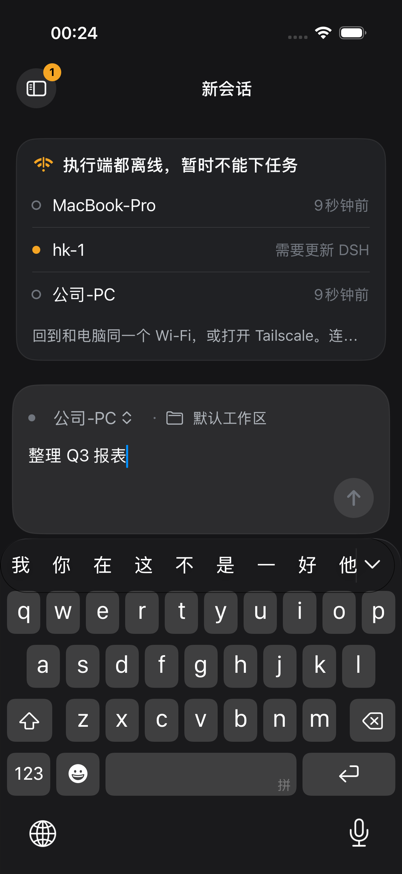
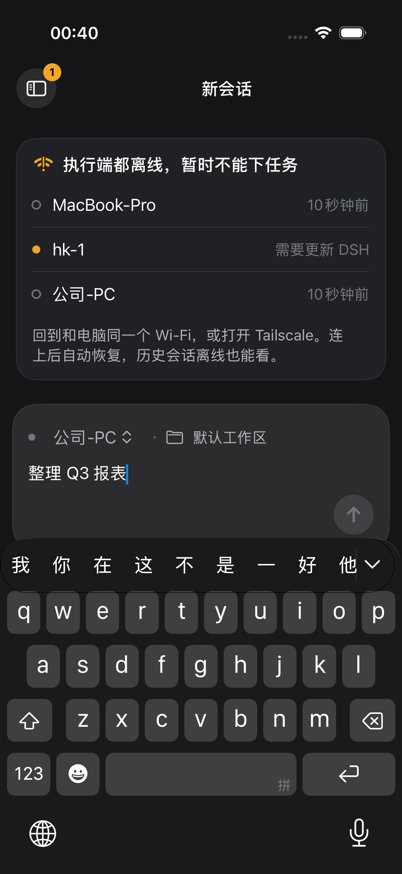
S21: tick Done when items with evidence; Log entry (to review)

diff --git a/PLAN.md b/PLAN.md
@@ -982,18 +982,28 @@ After T1, these slices touch different files and can run in parallel: S14, S15, 
 **Demo**: Stop all hosts. 01 shows the card. Start one host. The card goes away.
 
 **Done when**
-- [ ] [ui] The all-offline card names each host and its last connection — Evidence:
-- [ ] [ui] A revoke of this device asks for confirmation, then opens 08 — Evidence:
-- [ ] [ui] A tap on the "2 / 3" pill opens the hosts sheet: an online host with its channel, an unsupported DSH with the installed and supported versions, an offline host with its last connection and what waits on it — Evidence:
-- [ ] [ui] One host shows its devices (this device is marked) and its audit records, and "load older" adds the earlier records; a revoke of another device asks first and removes it — Evidence:
-- [ ] [ui] With all hosts offline the send key is off and a cached session still opens; when one host is back, the card goes away and the send key is on — Evidence:
-- [ ] [auto] "All hosts offline" is set only when no host can take a task, stays set while hosts retry, and clears when one is online; the send key follows it — Evidence:
-- [ ] [auto] The fake host's devices, audit pages and revoke match the bridge; a revoke of this device ends its access — Evidence:
+- [x] [ui] The all-offline card names each host and its last connection — Evidence: test:S21HostsUITests/testAllOfflineCardNamesEachHostAndGoesWhenOneIsBack · cmd:scripts/demo/s21.sh · shot:evidence/S21/s21-all-offline.png
+- [x] [ui] A revoke of this device asks for confirmation, then opens 08 — Evidence: test:S21HostsUITests/testRevokeThisDeviceAsksThenOpens08 · cmd:scripts/demo/s21.sh · shot:evidence/S21/s21-revoke-confirm.png · shot:evidence/S21/s21-revoked-08.png
+- [x] [ui] A tap on the "2 / 3" pill opens the hosts sheet: an online host with its channel, an unsupported DSH with the installed and supported versions, an offline host with its last connection and what waits on it — Evidence: test:S21HostsUITests/testHostsSheetShowsEachHostsState · cmd:scripts/demo/s21.sh · shot:evidence/S21/s21-hosts-sheet.png
+- [x] [ui] One host shows its devices (this device is marked) and its audit records, and "load older" adds the earlier records; a revoke of another device asks first and removes it — Evidence: test:S21HostsUITests/testRevokeThisDeviceAsksThenOpens08 · cmd:scripts/demo/s21.sh · shot:evidence/S21/s21-host-detail.png
+- [x] [ui] With all hosts offline the send key is off and a cached session still opens; when one host is back, the card goes away and the send key is on — Evidence: test:S21HostsUITests/testAllOfflineCardNamesEachHostAndGoesWhenOneIsBack · test:S2DurableListUITests/testOfflineHostIsNamedWithFakeBridge · cmd:scripts/demo/s21.sh · shot:evidence/S21/s21-host-back.png
+- [x] [auto] "All hosts offline" is set only when no host can take a task, stays set while hosts retry, and clears when one is online; the send key follows it — Evidence: test:HostsControlTests/allHostsOfflineOnlyWhenNoHostCanTakeATaskAndNotWhileOneComesBack · test:unreachableHostIsNamedAsOffline
+- [x] [auto] The fake host's devices, audit pages and revoke match the bridge; a revoke of this device ends its access — Evidence: test:HostsControlTests/devicesAuditPagesAndARevokeOfThisDeviceEndsItsAccess
 - [ ] [human] On a real paired iPhone, a revoke of this device in the hosts sheet opens 08, and the host refuses the phone after that — Evidence:
 
 **Not**: Device names (needs upstream).
 
-**Log**: —
+**Log**
+- **2026-11-07 · built, to review.** Branch `claude/s21-hosts`; simulator `dshm-S21`; `DSHM_HOME=~/.dshm/home-s21`. Ports 47816/3289 are only for `t0.sh`; the S21 demo uses in-process fakes. T0 demo passed on `dshm-S21` at the start.
+  - Done: `Features/Hosts/`: `HostsSheet` (H) from the "2 / 3" pill (`SheetRoute.hosts`, `.opensHostsSheet()`; the pill keeps `drawer.hosts`); `HostDetailView` (X2): devices with this device marked, revoke behind an alert, audit pages with "load older"; `AllHostsOfflineCard` (X3) on 01. `TaskListStore.allHostsOffline` stays set while hosts retry, and `canSend` is false while it is set. A revoke of this device forgets the host; with no host left, the app shows 08. See **D59** (*provisional, pending user confirmation*). The X2 caption on the board now says what happens when other hosts are left (`scripts/render-design`; only `board.png` changed). STORY.md needs no change.
+  - FakeBridge: `FakeHost(devices:)` (`FakeDevices`: `ListDevices`, paged `ListAudit`, `RevokeDevice`, like bridge/src/server.ts) and `FakeHosts` (`-DSHMFakeBridge hosts`, `hosts-one`); `FakeHostsSwitch` stops and starts the hosts on Darwin notifications.
+  - Seams (S21 lands second): S2's `testOfflineHostIsNamedWithFakeBridge` and `TaskListStoreTests/unreachableHostIsNamedAsOffline` now expect the card and the send key off, not an error after the tap. S12's test taps send on a host that needs an update; the key is now off, so the tap does nothing, and its checks (prompt kept, no task) still hold. I did not rerun it here (it needs the old DSH; `scripts/demo/s12.sh`). `s21.sh` also runs two S14 drawer tests (the pill).
+  - Verification: after `git merge main` (S16), `scripts/demo/s21.sh --shots` passed: `swift test` 69 tests, S21HostsUITests 3/3, seams 3/3.
[1 lines of base64/hex data omitted]
+  - Not done: the default model on the hosts sheet shows only when the host sends a model catalog. FakeHost has none, so no test covers it. Encryption shows "not encrypted (debug)" on the fakes; a Noise host shows "end-to-end encrypted". The `[human]` item is for the user.
+  - No new dependencies. Board change: the X2 caption only.
+  - For the coordinator: §0 S21 → `review` after `scripts/review S21`; add D59 and the `[human]` item to §9; add the S15 flaky test to §8.
+  - Next: independent review run (`scripts/review S21`), then merge.
 
 ### S22 · First run
 
